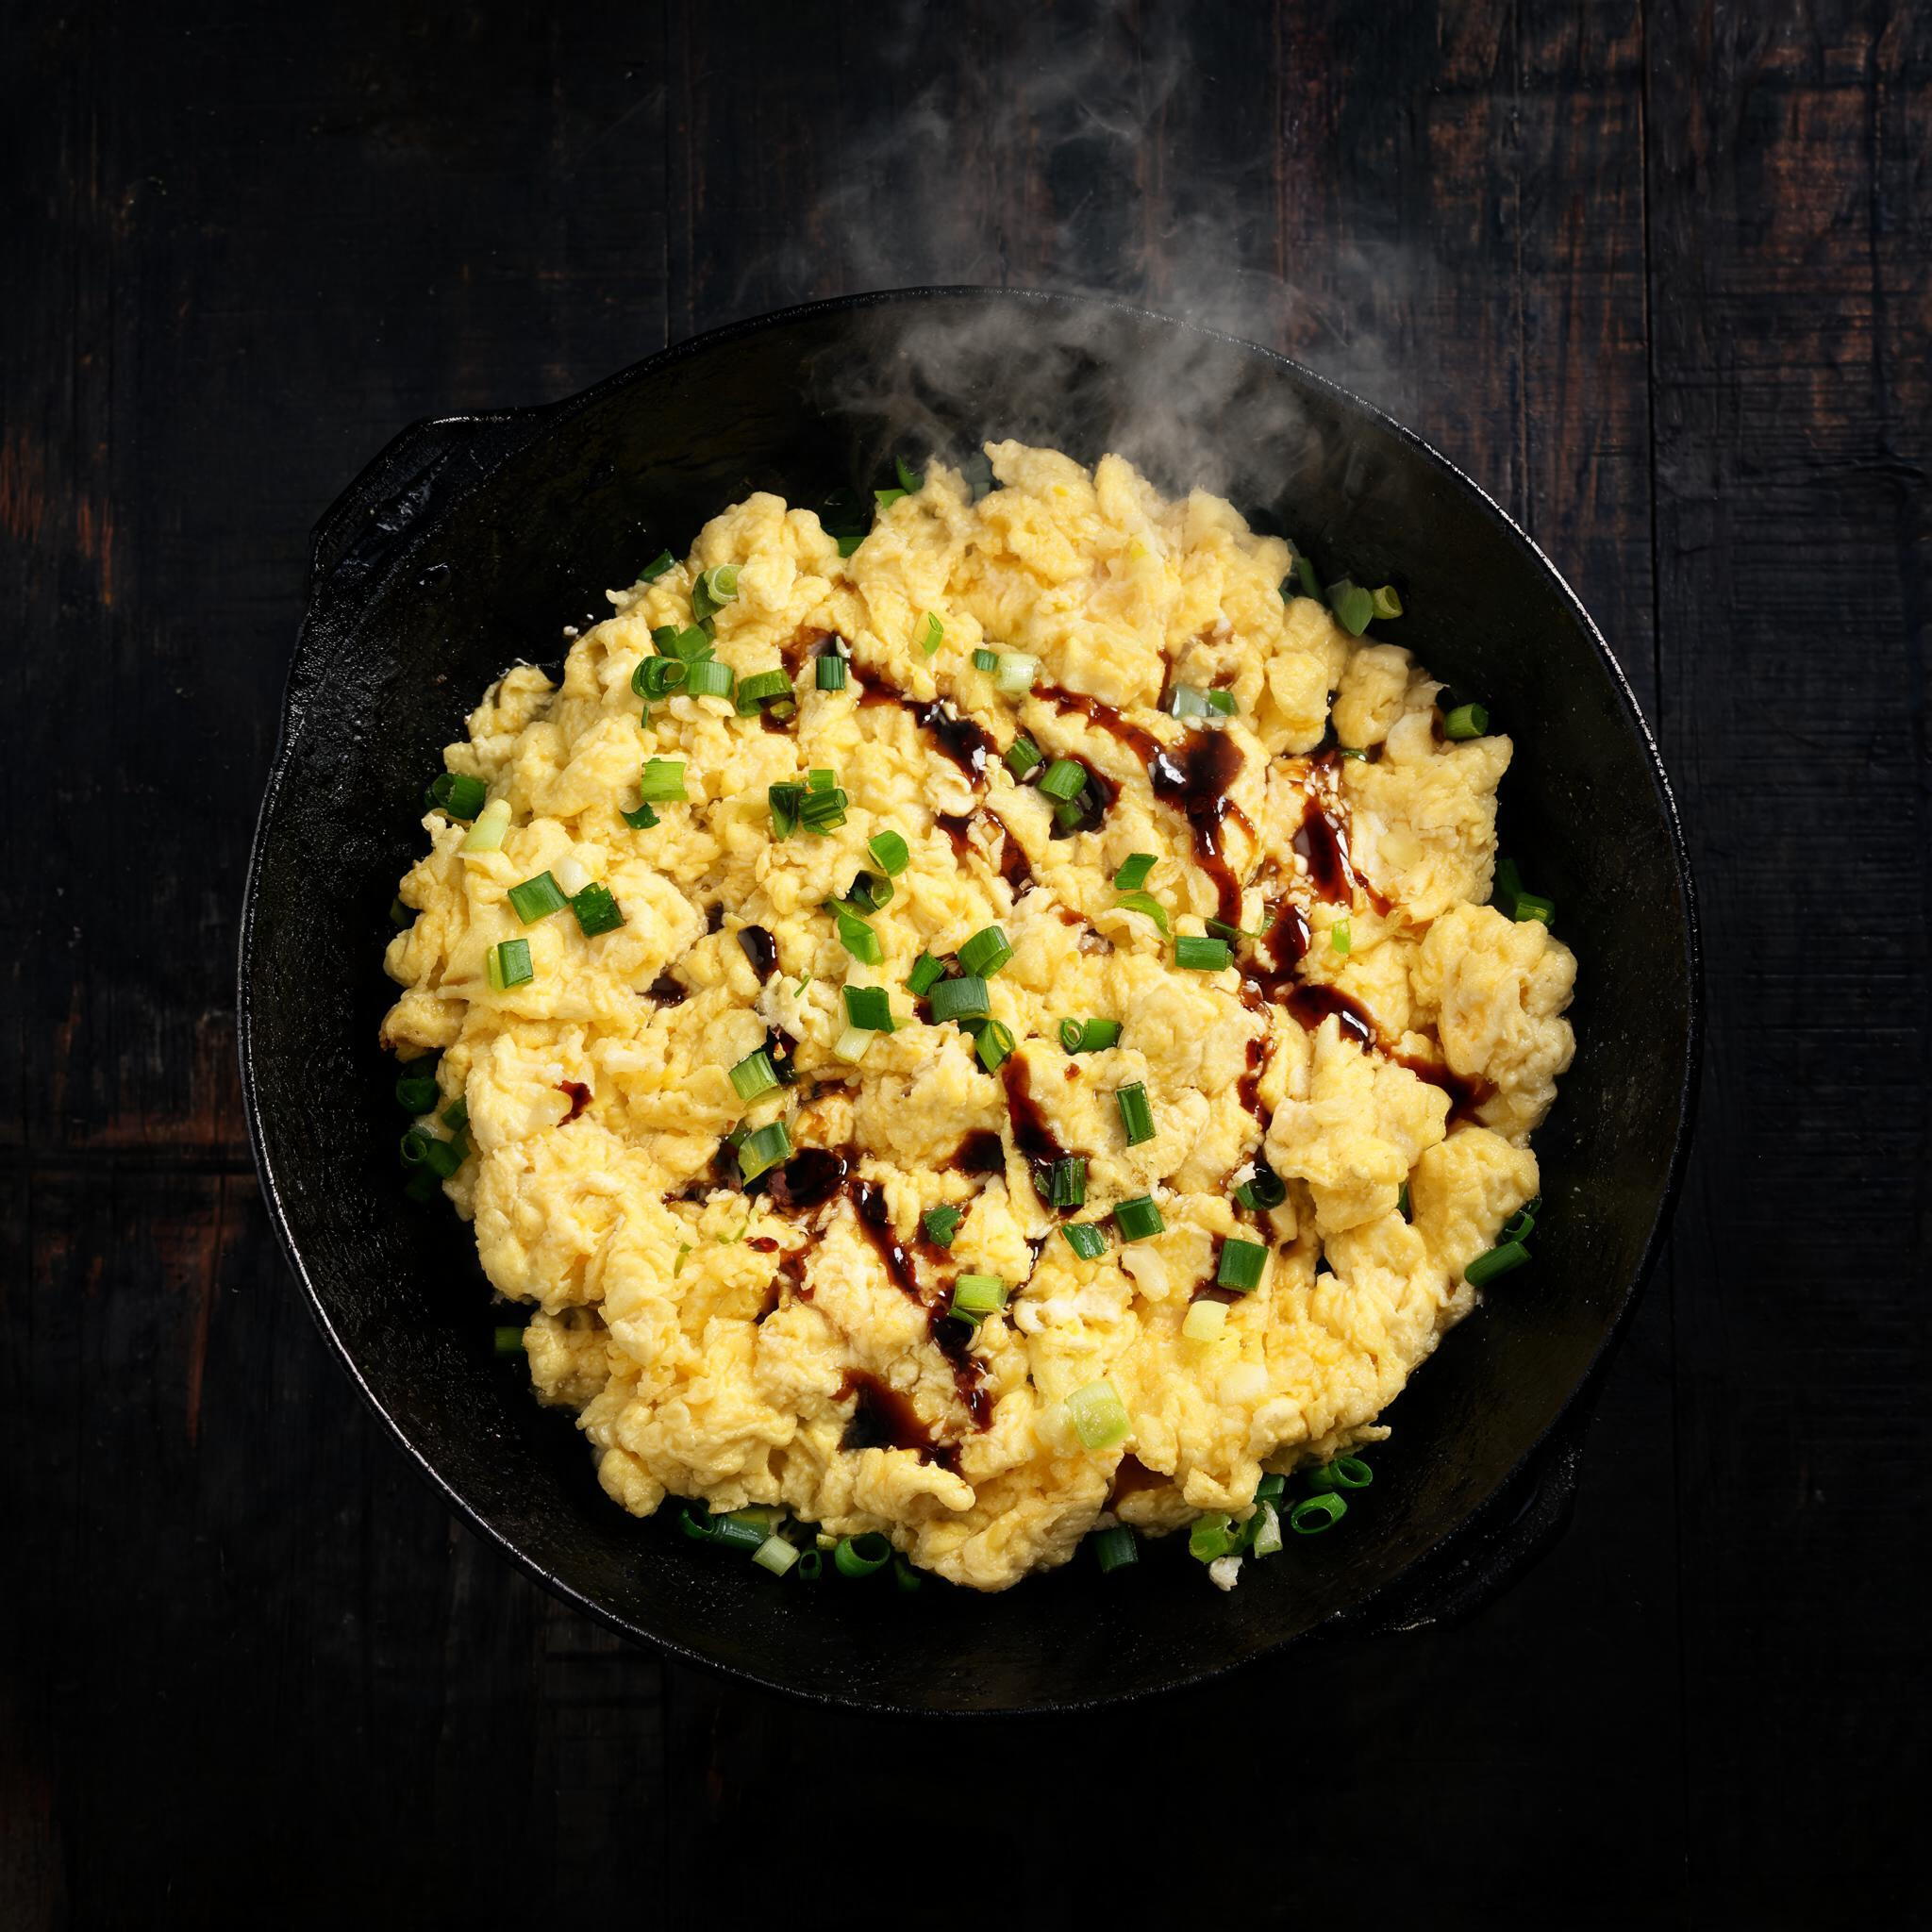
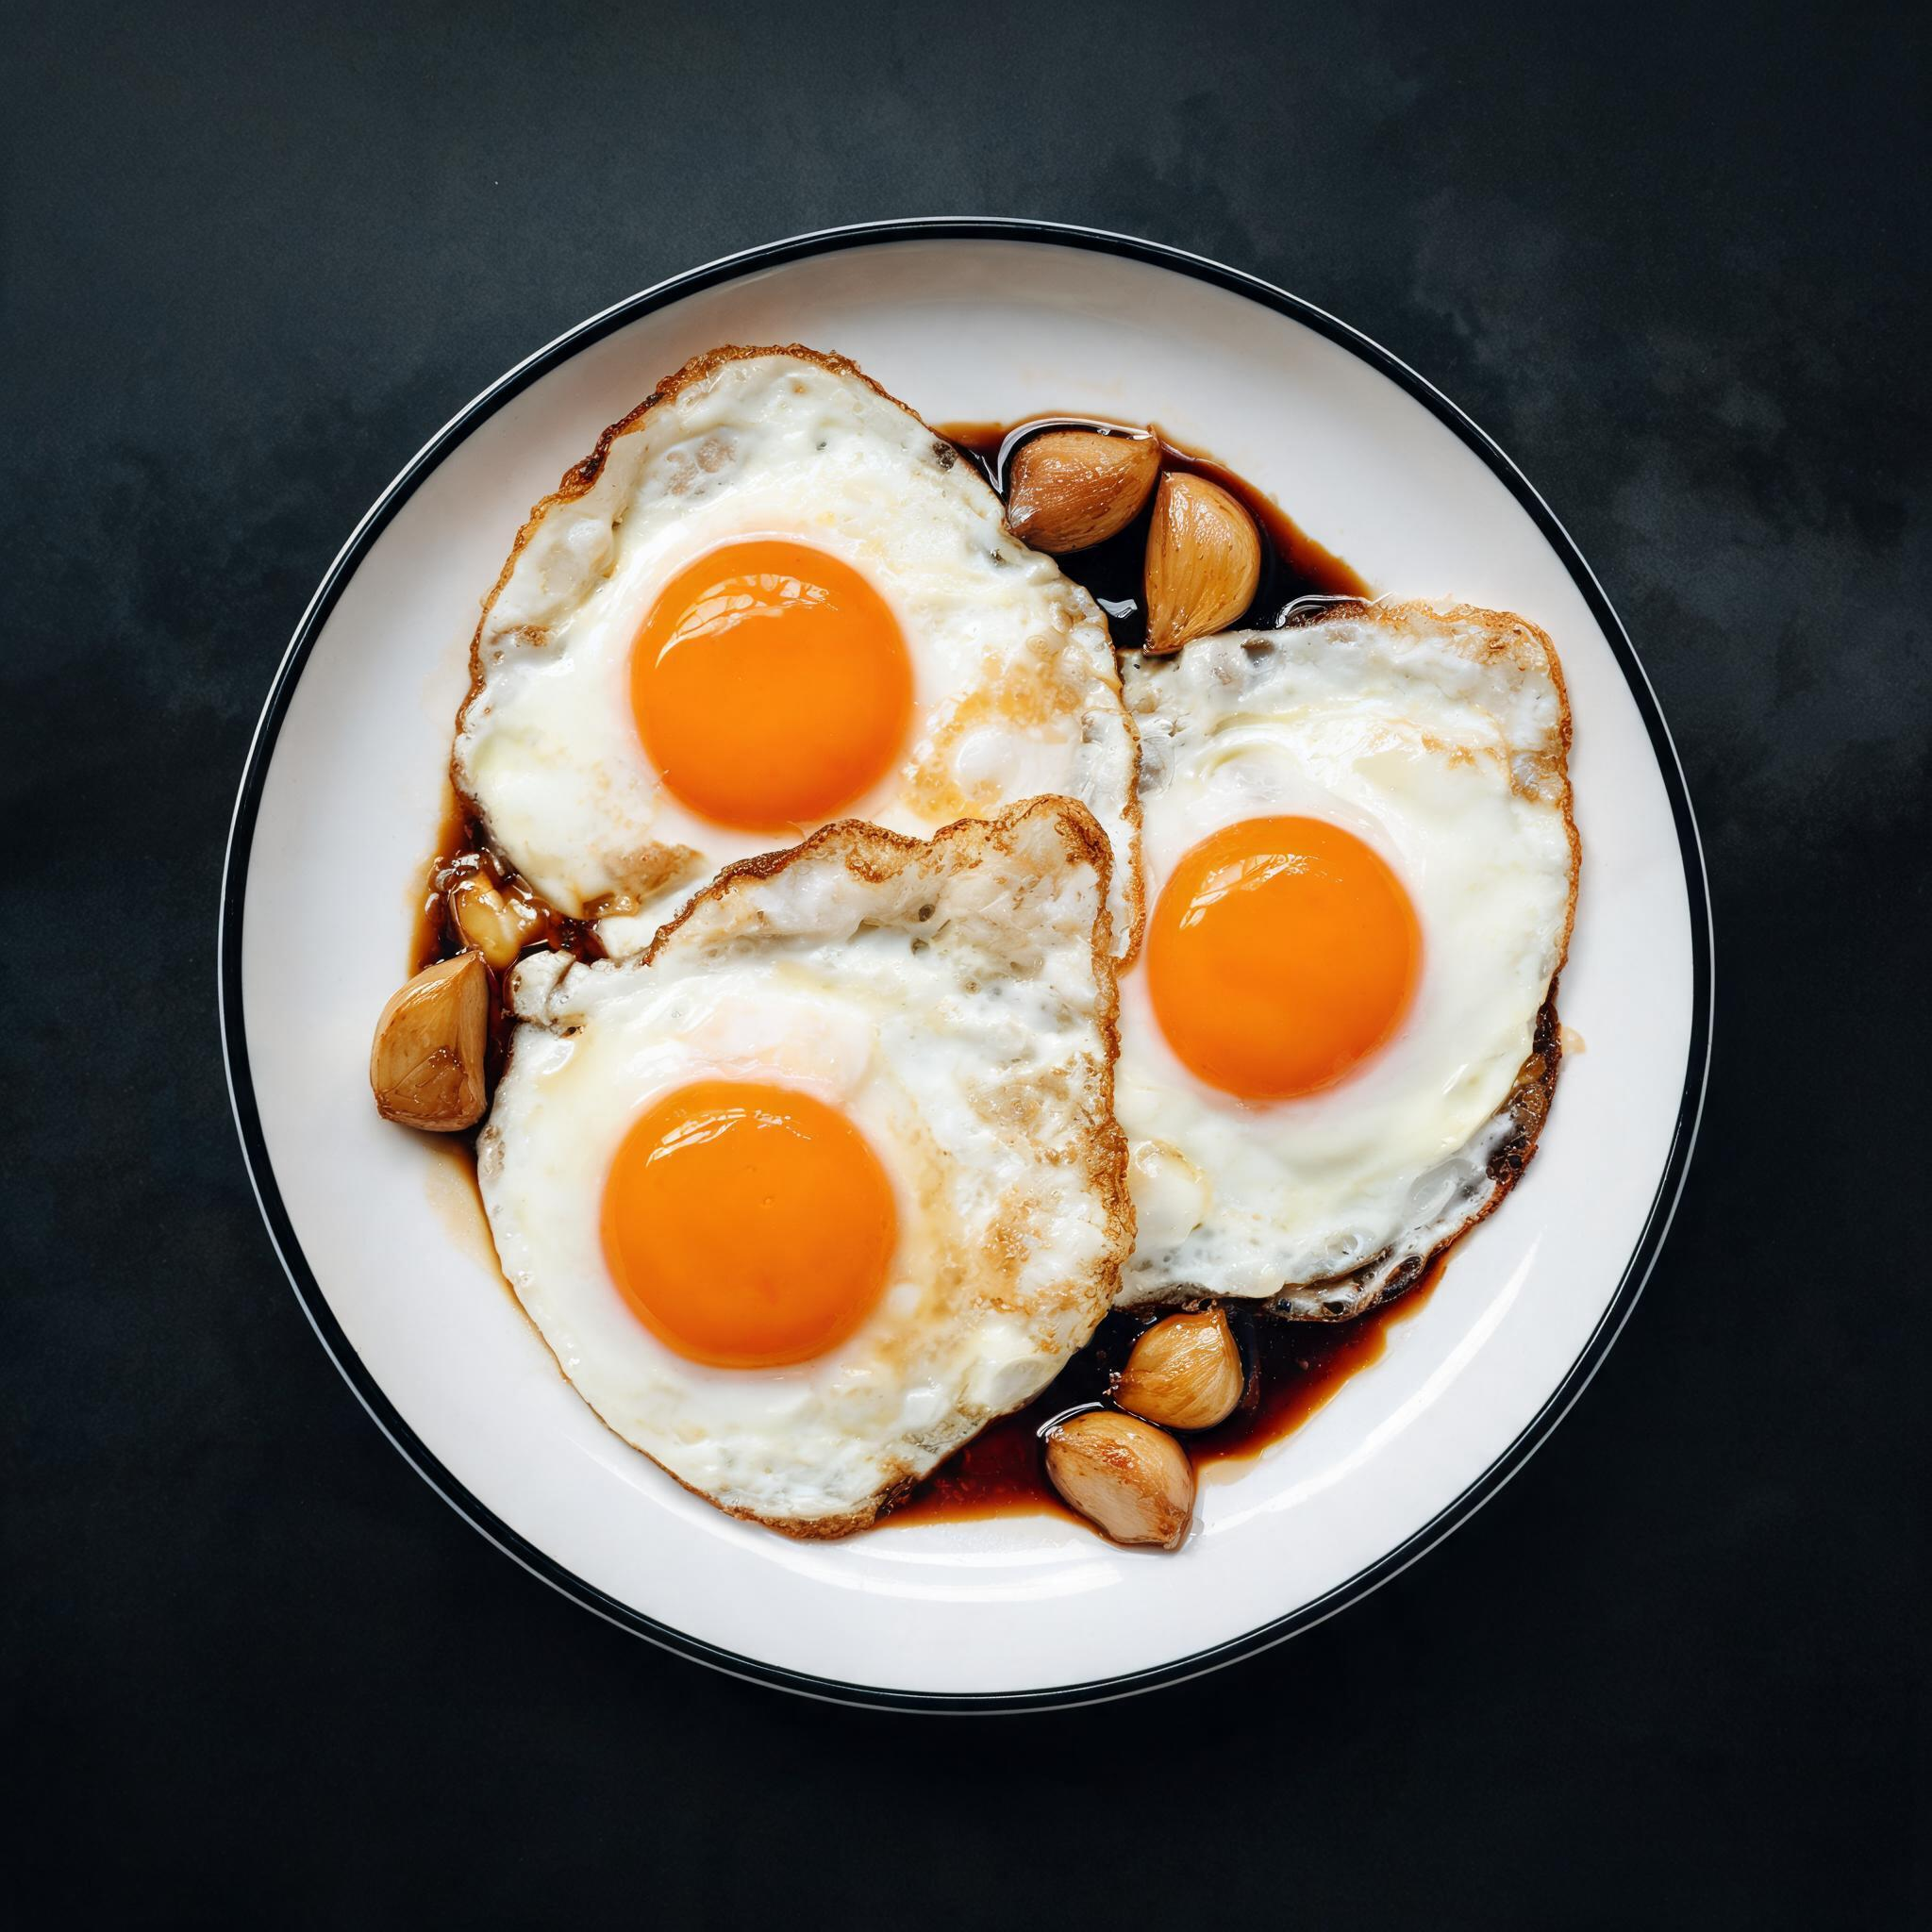
fix: gongjinbaodan recipe and image updated

diff --git a/index.html b/index.html
@@ -198,7 +198,7 @@
       { id:'tangculiji', category:'鲁菜',   name:'糖醋里脊',     price:0, desc:'外酥里嫩，酸甜汁裹着金黄的幸福感。',img:'./images/tangculiji.jpg', ingredients:'猪里脊、鸡蛋、番茄酱、白醋与白糖。',                       detail:'色泽金黄、酸甜可口，一口下去酥脆和嫩滑同时拥有。',                  nutrition:'碳水 38% · 蛋白质 35% · 脂肪 27%', taste:4.8, selectedCount:0, steps:['里脊肉切条，加料酒盐蛋清腌制15分钟。','肉条裹上淀粉，七成油温炸至金黄。','另起锅，番茄酱白醋白糖调成糖醋汁。','下肉条快速翻匀，撒白芝麻出锅。'], tips:'复炸 30 秒更酥脆，糖醋汁提前调好不手忙脚乱。' },
       { id:'basidigua',  category:'甜品',   name:'拔丝地瓜',     price:0, desc:'金黄地瓜裹着晶亮的糖丝，甜蜜拉丝。',img:'./images/basidigua.jpg',  ingredients:'红薯、白糖、清水与少许油。',                                 detail:'刚出锅裹着冰水咬一口，咔嚓脆壳里是软糯甜心。',                    nutrition:'碳水 72% · 蛋白质 3% · 脂肪 25%', taste:4.9, selectedCount:0, steps:['红薯去皮切滚刀块，油炸至金黄熟透捞出。','锅中白糖加少许清水小火熬至琥珀色。','迅速倒入炸好的红薯翻拌裹糖。','装盘配一碗冰水，蘸一下拉丝不烫嘴。'], tips:'熬糖时火一定要小，变成琥珀色立刻离火。' },
       { id:'pijiuchichi',category:'东北菜', name:'啤酒鸡翅',     price:0, desc:'啤酒焖出的鸡翅，骨酥肉烂满屋香。',  img:'./images/pijiuchichi.jpg', ingredients:'鸡翅中、啤酒、生抽、冰糖与姜片。',                         detail:'一锅慢慢焖出来的鸡翅，连骨头都吸饱了啤酒的麦香。',                nutrition:'碳水 15% · 蛋白质 42% · 脂肪 43%', taste:4.7, selectedCount:0, steps:['鸡翅洗净划刀，冷水下锅焯去血沫。','热油煎鸡翅至两面金黄，加姜片爆香。','倒入啤酒没过鸡翅，加生抽冰糖大火烧开。','转小火焖 20 分钟，收汁撒葱花出锅。'], tips:'啤酒选普通黄啤即可，焖的时间越长越入味。' },
-      { id:'gongjinbaodan',category:'东北菜',name:'公瑾爆蛋',   price:0, desc:'热油猛火爆出的蓬松蛋花，镬气十足。',img:'./images/gongjinbaodan.jpg', ingredients:'鸡蛋、大葱、酱油、盐与少许油。',                                 detail:'鸡蛋在滚烫的油锅里瞬间炸开成云朵，是东北厨房里的豪迈与温柔。',     nutrition:'碳水 4% · 蛋白质 38% · 脂肪 58%', taste:4.6, selectedCount:0, steps:['鸡蛋加少许盐打散，大葱切葱花。','锅烧到冒青烟，倒宽油烧至八成热。','蛋液沿锅边倒入，瞬间膨胀后用铲子快速划散。','撒葱花淋酱油翻两下立刻出锅。'], tips:'油一定要够热，蛋液下去能听到"滋啦"一声才对。' }
+      { id:'gongjinbaodan',category:'东北菜',name:'公瑾爆蛋',   price:0, desc:'整蛋下锅油煎，酱汁一淋满屋香。',    img:'./images/gongjinbaodan.jpg', ingredients:'鸡蛋（不打散）、生抽、老抽、蚝油、白糖、番茄酱、蒜片。',     detail:'蛋不用打散直接下锅，蛋黄还是流心的，裹着咸甜酱汁拌饭一绝。',       nutrition:'碳水 8% · 蛋白质 32% · 脂肪 60%', taste:4.8, selectedCount:0, steps:['蒜切片，生抽老抽蚝油白糖番茄酱加少许水搅成酱汁。','热锅倒油，鸡蛋整颗打入，中小火煎至蛋白焦边蛋黄半熟。','将蒜片撒在蛋周围爆香，倒入酱汁。「滋啦」一声，转大火收汁10秒。','连蛋带汁整盘滑入白瓷盘，趁热吃。'], tips:'蛋黄要保持流心才好吃，煎蛋时火别太大。' }
     ];
 
     const categories = ['东北菜','川菜','湘菜','鲁菜','饮品','甜品','主食'];